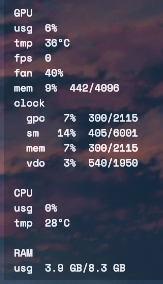
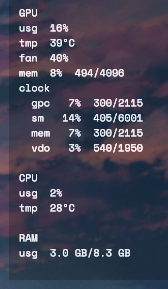
fps removed

diff --git a/src/main.rs b/src/main.rs
@@ -139,7 +139,6 @@ fn main() -> Result<(), Box<dyn Error>> {
                             let mem_free = String::from_utf8_lossy(&get_value(&lines[82].as_bytes(), 4)).parse::<u32>().unwrap();
                             let mem_used = mem_total - mem_free;
                             let usage = String::from_utf8_lossy(&get_value(&lines[89].as_bytes(), 2));
-                            let fps = String::from_utf8_lossy(&get_value(&lines[95].as_bytes(), 0));
                             let tmp = String::from_utf8_lossy(&get_value(&lines[121].as_bytes(), 2));
                             let clock_graphics = String::from_utf8_lossy(&get_value(&lines[137].as_bytes(), 4)).parse::<u32>().unwrap();
                             let clock_graphics_max = String::from_utf8_lossy(&get_value(&lines[148].as_bytes(), 4)).parse::<u32>().unwrap();
@@ -149,9 +148,9 @@ fn main() -> Result<(), Box<dyn Error>> {
                             let clock_mem_max = String::from_utf8_lossy(&get_value(&lines[150].as_bytes(), 4)).parse::<u32>().unwrap();
                             let clock_video = String::from_utf8_lossy(&get_value(&lines[140].as_bytes(), 4)).parse::<u32>().unwrap();
                             let clock_video_max = String::from_utf8_lossy(&get_value(&lines[151].as_bytes(), 4)).parse::<u32>().unwrap();
-                            format!("usg  {}%\ntmp  {}°C\nfps  {}\nfan  {}%\nmem  {}%  {}/{}\nclock\n  gpc  {: >2}%  {}/{}\n  sm   {: >2}%  {}/{}\n\
+                            format!("usg  {}%\ntmp  {}°C\nfan  {}%\nmem  {}%  {}/{}\nclock\n  gpc  {: >2}%  {}/{}\n  sm   {: >2}%  {}/{}\n\
                             \t  mem  {: >2}%  {}/{}\n  vdo  {: >2}%  {}/{}",
-                                usage, tmp, fps, fan, mem_total/mem_used, mem_used, mem_total,
+                                usage, tmp, fan, mem_total/mem_used, mem_used, mem_total,
                                 clock_graphics_max/clock_graphics, clock_graphics, clock_graphics_max,
                                 clock_mem_max/clock_mem, clock_mem, clock_mem_max,
                                 clock_sm_max/clock_sm, clock_sm, clock_sm_max, 

diff --git a/Readme.md b/Readme.md
@@ -18,11 +18,19 @@ Benchmarco is a simple graphical user interface to analize CPU, GPU and memory p
 - vdo
     - frequency of video encoder/decoder clock.
 
+### Todo
+
+[ ] Windows support
+[ ] AMD GPU support (not planing to do until i get one :)
 
 ## 🚀 Running
+
+Run the command if you want to build this yourself.
 ```
 cargo run --release
 ```
 
+nvidia driver is needed.
+
 ## License
-Use the code as you want :)
+Use the code as you want.
